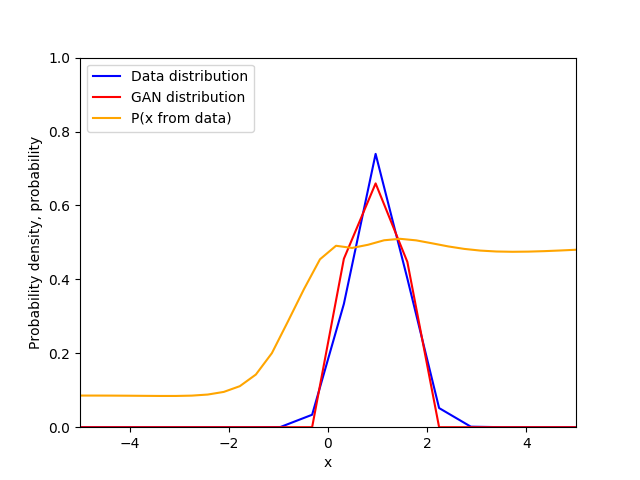
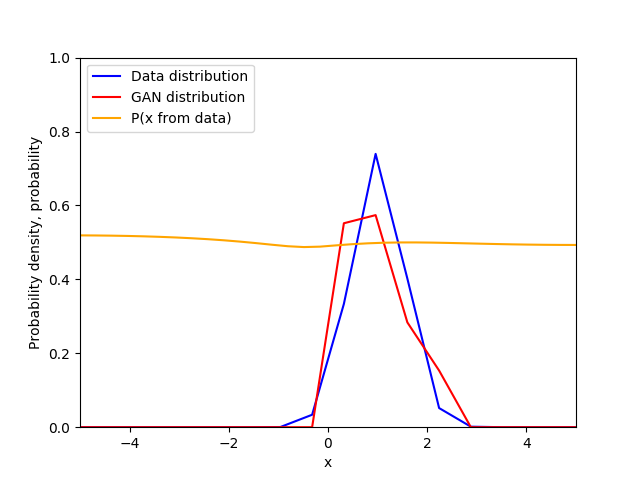
Initial commit

diff --git a/normal_gan.py b/normal_gan.py
@@ -44,17 +44,18 @@ class NoiseDistribution(object):
 
         return x
 
-def weight(shape, stddev):
-    init = tf.truncated_normal_initializer(stddev=stddev)
+def weight(shape):
+    bound = np.sqrt(6.0 / np.sum(shape))
+    init  = tf.random_uniform_initializer(-bound, bound)
     return tf.get_variable('W', shape, initializer=init)
 
 def bias(shape):
-    init = tf.constant_initializer(0.1)
+    init = tf.constant_initializer(0.0)
     return tf.get_variable('b', shape, initializer=init)
 
-def linear(scope, x, dim, stddev=1.0):
+def linear(scope, x, dim):
     with tf.variable_scope(scope):
-        W = weight([x.get_shape()[-1].value, dim], stddev)
+        W = weight([x.get_shape()[-1].value, dim])
         b = bias([dim])
     return tf.matmul(x, W) + b
 
@@ -70,13 +71,13 @@ def discriminator(x, hidden_dim=8):
     x = tf.tanh(x)
     x = linear('hidden_2', x, hidden_dim)
     x = tf.tanh(x)
-    x = linear('logit', x, 1)
+    x = linear('logits', x, 1)
     x = tf.sigmoid(x)
 
     return x
 
 def get_train_op(loss, variables, initial_learning_rate,
-                 decay=0.95, decay_steps=200):
+                 decay=0.96, decay_steps=200):
     # Implement exponential decay of learning rate
     global_step   = tf.Variable(0, trainable=False)
     learning_rate = tf.train.exponential_decay(
